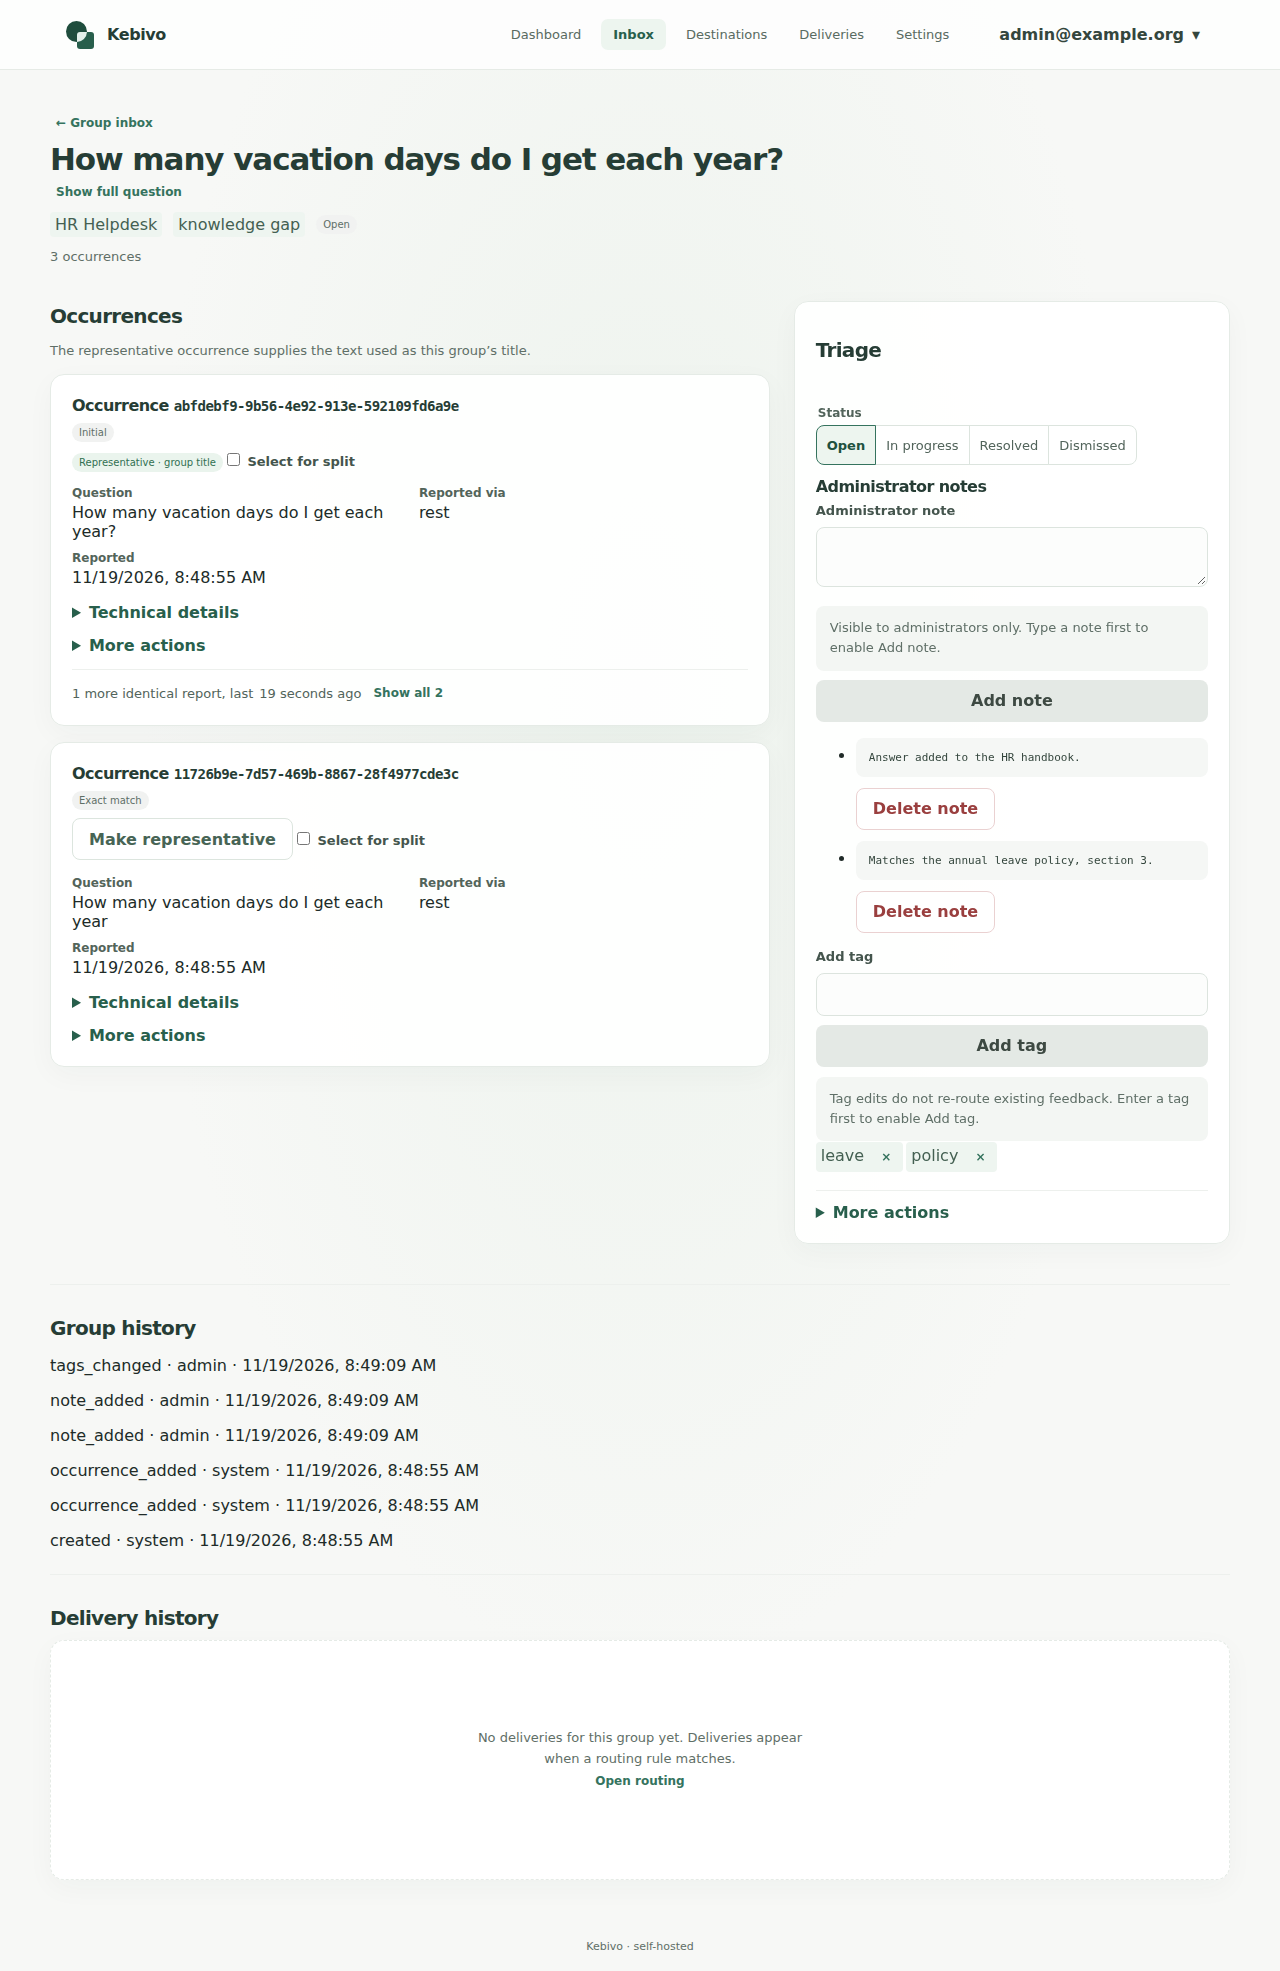
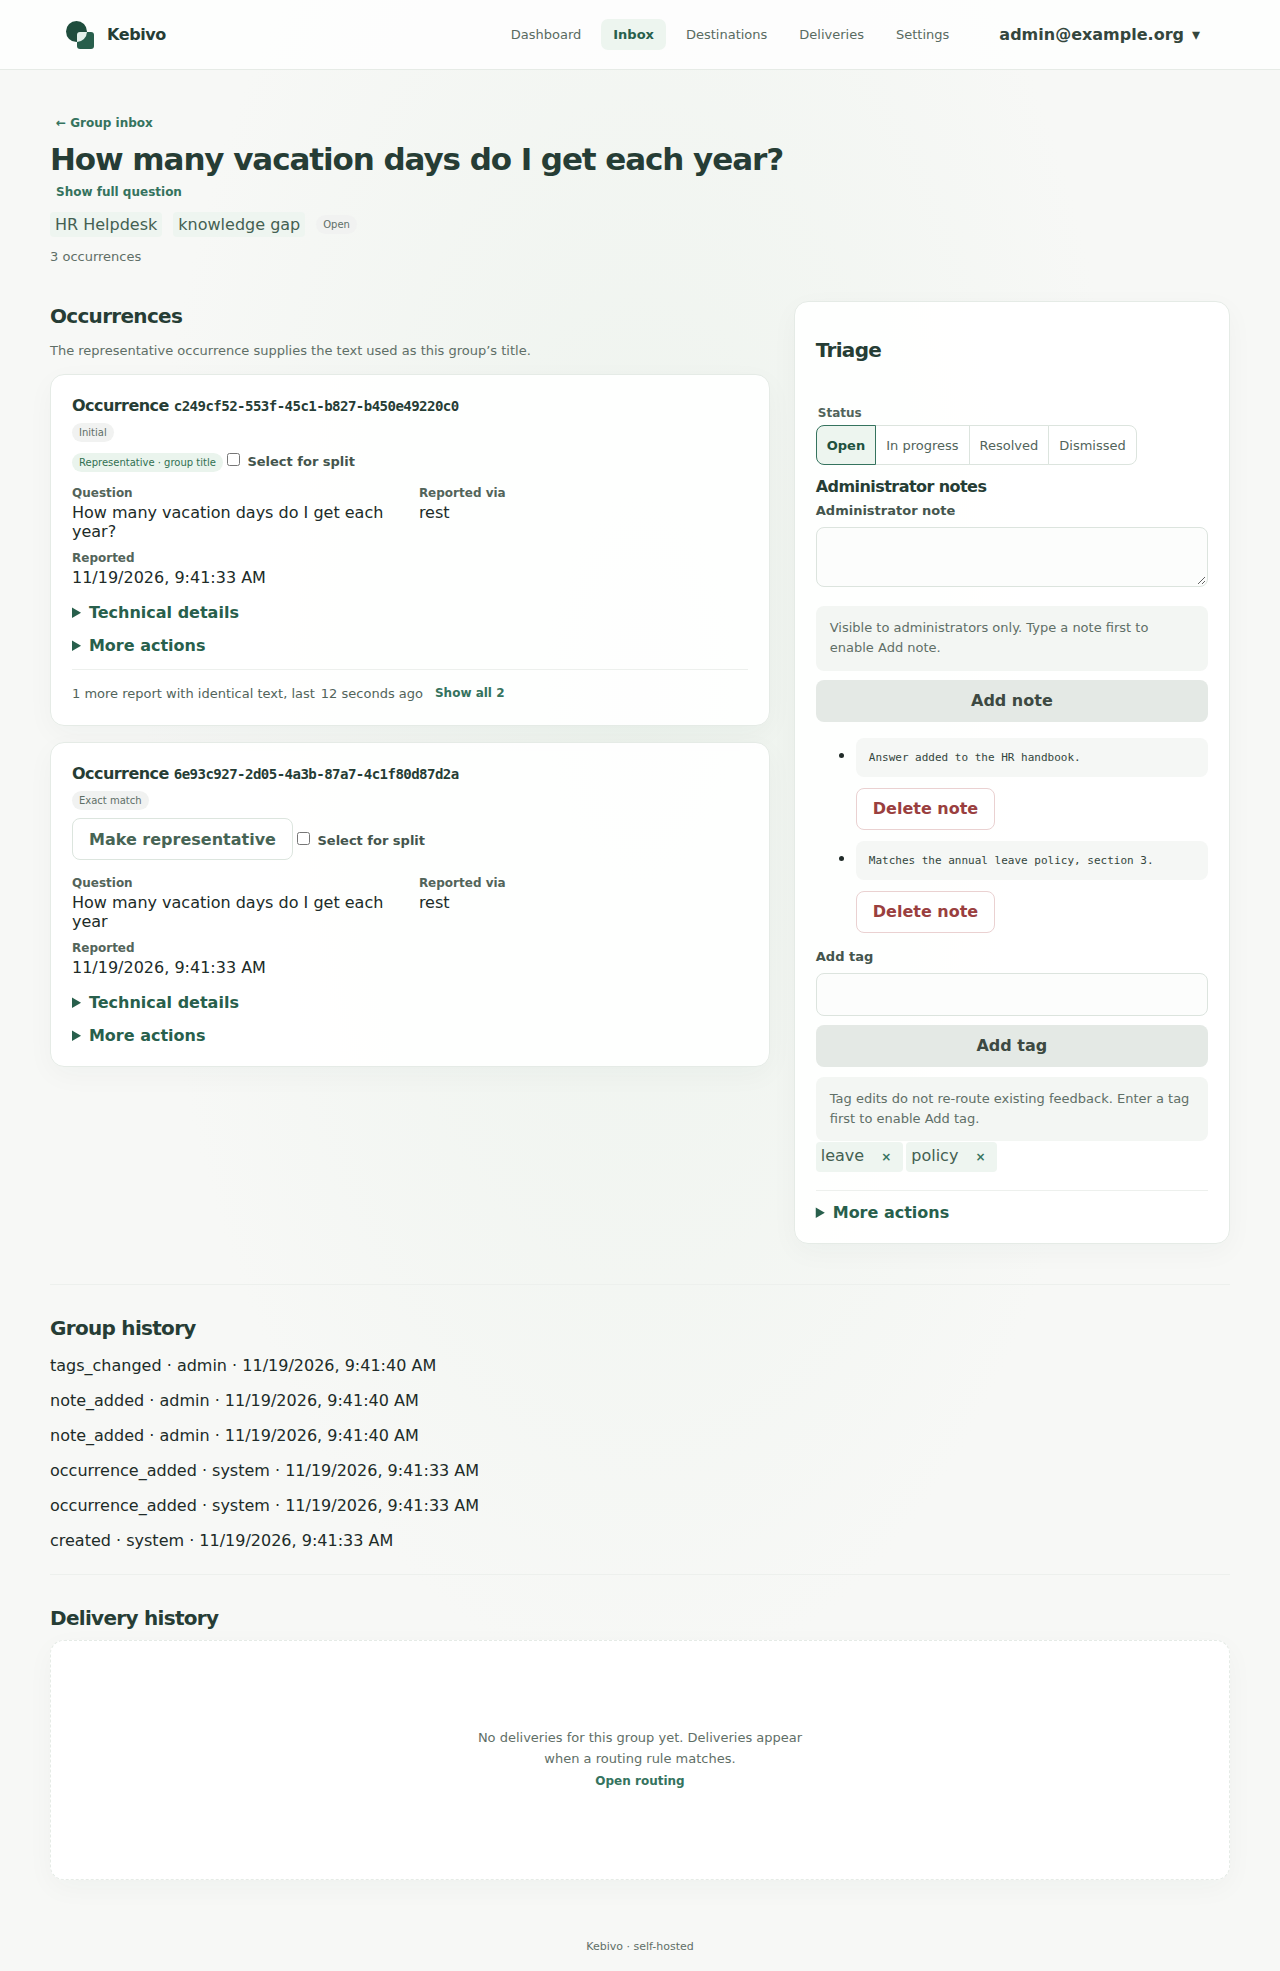
Keep reopening reports visible and unpin the triage panel
Identical-text occurrences that reopened the group now keep their own
card, the summary line says "with identical text" and its time covers
every copy. The triage panel was sticky but taller than the viewport, so
the actions now at its end could stay out of reach; it scrolls with the
page instead.

diff --git a/frontend/src/GroupDetail.test.tsx b/frontend/src/GroupDetail.test.tsx
@@ -232,30 +232,31 @@ describe("group detail safety and sections", () => {
     expect(requests.filter(request => request.url.endsWith("/admin/groups/g1/events"))).toHaveLength(2);
   });
 
-  it("shows identical reports once and splits from the expanded list", async () => {
+  it("shows identical reports once, keeps a reopening report apart, and splits from the expanded list", async () => {
     const requests: { url: string; init?: RequestInit }[] = [];
     const same = (id: string, at: string) => ({ id, event_type: "knowledge_gap", agent_reported: { question: "Do you ship to Canada?" }, system: { received_at: at }, tags: [] });
     globalThis.fetch = vi.fn(async (input, init) => {
       const url = String(input); requests.push({ url, init });
-      if (url.endsWith("/admin/groups/g1/events")) return new Response(JSON.stringify({ items: [same("e1", "2026-11-01T00:00:00Z"), same("e2", "2026-11-02T00:00:00Z"), { id: "e3", event_type: "knowledge_gap", agent_reported: { question: "Ship to Canada?" }, system: {}, tags: [] }, same("e4", "2026-11-03T00:00:00Z")], next_cursor: null }));
+      if (url.endsWith("/admin/groups/g1/events")) return new Response(JSON.stringify({ items: [same("e1", "2026-11-01T00:00:00Z"), same("e2", "2026-11-04T00:00:00Z"), { id: "e3", event_type: "knowledge_gap", agent_reported: { question: "Ship to Canada?" }, system: {}, tags: [] }, same("e4", "2026-11-03T00:00:00Z"), { ...same("e5", "2026-11-05T00:00:00Z"), match: { method: "exact", triggered_reopen: true } }], next_cursor: null }));
       if (url.endsWith("/admin/groups/g1/history")) return new Response(JSON.stringify({ items: [] }));
       if (url.includes("/deliveries?group_id=")) return new Response(JSON.stringify({ items: [] }));
       if (url.endsWith("/admin/groups/g1/split")) return new Response(JSON.stringify({ group_id: "g2" }));
-      return new Response(JSON.stringify({ id: "g1", status: "open", occurrence_count: 4, representative: { event_id: "e2", question: "Do you ship to Canada?" }, project: { id: "p1", name: "Shop" }, event_type: "knowledge_gap", notes: [], tags: [] }));
+      return new Response(JSON.stringify({ id: "g1", status: "open", occurrence_count: 5, representative: { event_id: "e2", question: "Do you ship to Canada?" }, project: { id: "p1", name: "Shop" }, event_type: "knowledge_gap", notes: [], tags: [] }));
     }) as typeof fetch;
     await act(async () => { root.render(<GroupDetail groupId="g1" navigate={() => {}} />); await new Promise(resolve => setTimeout(resolve, 0)); });
     const cards = () => Array.from(container.querySelectorAll("article[id^='event-']")).map(card => card.id);
-    expect(cards()).toEqual(["event-e2", "event-e3"]);
+    expect(cards()).toEqual(["event-e2", "event-e3", "event-e5"]);
+    expect(container.querySelector("#event-e5")!.textContent).toContain("Reopened this group");
     const summary = container.querySelector(".identical-reports")!;
-    expect(summary.textContent).toMatch(/^2 more identical reports, last /);
-    expect(summary.querySelector("time")?.getAttribute("dateTime")).toBe("2026-11-03T00:00:00Z");
+    expect(summary.textContent).toMatch(/^2 more reports with identical text, last /);
+    expect(summary.querySelector("time")?.getAttribute("dateTime")).toBe("2026-11-04T00:00:00Z");
     const toggle = summary.querySelector("button")!;
     expect(toggle.getAttribute("aria-expanded")).toBe("false");
     expect(toggle.textContent).toBe("Show all 3");
     expect(container.querySelector<HTMLDetailsElement>(".triage-more")!.open).toBe(false);
     await act(async () => { toggle.click(); });
     expect(toggle.getAttribute("aria-expanded")).toBe("true");
-    expect(cards()).toEqual(["event-e2", "event-e1", "event-e4", "event-e3"]);
+    expect(cards()).toEqual(["event-e2", "event-e1", "event-e4", "event-e3", "event-e5"]);
     await act(async () => { (container.querySelector('[aria-label="Select occurrence e4 for split"]') as HTMLInputElement).click(); });
     expect(container.querySelector<HTMLDetailsElement>(".triage-more")!.open).toBe(true);
     await act(async () => { Array.from(container.querySelectorAll("button")).find(button => button.textContent === "Split selected occurrences (1)")!.click(); });

diff --git a/frontend/src/GroupDetail.tsx b/frontend/src/GroupDetail.tsx
@@ -43,8 +43,9 @@ const matchLabels: Record<string, string> = { initial: "Initial", exact: "Exact 
 const stringify = (value: unknown) =>
   typeof value === "string" ? value : JSON.stringify(value, null, 2);
 // Occurrences with the same reported text collapse into one card; the rest sit behind a toggle.
+// A report that reopened the group keeps its own card so the reopen stays visible.
 const sameText = (ev: Event) =>
-  JSON.stringify([ev.event_type, ev.agent_reported.question, ev.agent_reported.previous_answer, ev.agent_reported.context, ev.agent_reported.correction ?? ev.submitted_correction]);
+  JSON.stringify([ev.event_type, ev.agent_reported.question, ev.agent_reported.previous_answer, ev.agent_reported.context, ev.agent_reported.correction ?? ev.submitted_correction, ev.match?.triggered_reopen ?? false]);
 const safe = (value: unknown) => (
   <pre className="safe-pre safe-text" dir="auto">
     {stringify(value)}
@@ -413,12 +414,12 @@ export function GroupDetail({
             const first = copies.find((ev) => ev.id === group.representative.event_id) ?? copies[0];
             const rest = copies.filter((ev) => ev !== first);
             const open = shownCopies[key] ?? rest.some((ev) => ev.id === highlight);
-            const latest = rest.reduce((last, ev) => (ev.system.received_at > last ? ev.system.received_at : last), "");
+            const latest = copies.reduce((last, ev) => (ev.system.received_at > last ? ev.system.received_at : last), "");
             return (
               <React.Fragment key={first.id}>
                 {occurrence(first, rest.length > 0 && (
                   <p className="identical-reports">
-                    {rest.length} more identical {rest.length === 1 ? "report" : "reports"}
+                    {rest.length} more {rest.length === 1 ? "report" : "reports"} with identical text
                     {latest && <>, last <time dateTime={latest} title={exactDate(latest)}>{relativeDate(latest)}</time></>}
                     <button type="button" className="text-button" aria-expanded={open} onClick={() => setShownCopies((current) => ({ ...current, [key]: !open }))}>
                       {open ? "Hide identical reports" : `Show all ${copies.length}`}

diff --git a/frontend/src/style.css b/frontend/src/style.css
@@ -209,7 +209,7 @@ tbody th small { display: block; margin-top: 4px; color: #5f6f67; font-weight: 4
 .group-chips { display:flex; flex-wrap:wrap; gap:8px; align-items:center; margin:8px 0; }
 .group-detail-columns { display:grid; grid-template-columns:minmax(0,1.65fr) minmax(300px,1fr); gap:24px; align-items:start; }
 .group-detail-main > section, .group-detail-triage > section { margin-top:12px; }
-.group-detail-triage { position:sticky; top:20px; grid-column:2; grid-row:1; }
+.group-detail-triage { grid-column:2; grid-row:1; }
 .group-detail-columns > .group-detail-main { grid-column:1; grid-row:1; }
 .group-detail-triage .inline-status { min-height:1.4em; color:#285f4c; font-size:13px; }
 .occurrence-summary { display:grid; grid-template-columns:repeat(2,minmax(0,1fr)); gap:10px 18px; }
@@ -221,7 +221,7 @@ tbody th small { display: block; margin-top: 4px; color: #5f6f67; font-weight: 4
 .group-detail-main details summary { cursor:pointer; color:#285f4c; font-weight:600; }
 .inline-confirm { display:inline-flex; flex-wrap:wrap; align-items:center; gap:8px; margin-left:8px; }
 button:disabled, button[aria-disabled="true"] { opacity:1; color:#3d4942; background:#e4e9e5; border-color:#c8d1ca; cursor:not-allowed; }
-@media(max-width:1023px) { .group-detail-columns { grid-template-columns:1fr; } .group-detail-triage { position:static; } .group-detail-triage, .group-detail-columns > .group-detail-main { grid-column:auto; grid-row:auto; } }
+@media(max-width:1023px) { .group-detail-columns { grid-template-columns:1fr; } .group-detail-triage, .group-detail-columns > .group-detail-main { grid-column:auto; grid-row:auto; } }
 @media(max-width:540px) { .occurrence-summary { grid-template-columns:1fr; } .group-question { max-width:100%; } }
 
 @media (max-width: 780px) { .dashboard-grid { grid-template-columns: 1fr; } .project-panel { order: 0; } .detail-column { order: 1; } }

diff --git a/docs/feedback-management.md b/docs/feedback-management.md
@@ -68,6 +68,6 @@ All writes below require an administrator cookie, the allowed `Origin` and `X-CS
 
 The `/inbox` page uses the group list API. Date pickers use UTC day boundaries. Search, project, type, repeated status and tag filters, inclusive first/last-seen bounds, minimum occurrences and sort are kept in the query string so a URL can be reloaded or shared. The **Reopened** toggle filters groups a recurrence reopened. Status, tag and reopened chips remove one filter at a time. “Load more” follows the opaque cursor and avoids appending duplicate group IDs. The page provides loading, empty and retryable error states. The home dashboard shows group/event totals, per-status counts, recent failed deliveries, and the API's top recurring open gaps; status and open-gap links open filtered inbox views. **Resolved (7d)** and **Reopened (7d)** open the inbox filtered to those groups and that week. Both screens use same-origin session-cookie requests.
 
-`/inbox/groups/{id}` shows paged full-text occurrences, group history and delivery history. Each occurrence separates **Reported by agent**, **Submitted correction (unverified)**, **Administrator notes**, and **System** content. Text and metadata render as literal text. The header shows when a resolved group was resolved, or a **Reopened** chip with the occurrences since it was resolved, and the resolution note beside it. **Status** comes first in the Triage panel, as a row of buttons. Choosing **Resolved** moves focus to an optional one-line "What did you change?" note; skipping it leaves the group resolved. Occurrences with identical text show once, with a count of the others, when the last one arrived, and a button that shows them all; select occurrences to split from the full list. Merge, Split and Find similar groups sit under **More actions**, which opens when you select an occurrence. Administrators can change status, select a representative occurrence, add or delete notes, and add or remove tags; tag edits do not re-route. Merge searches only groups in the same project and event type, warns that resolved or dismissed targets retain their status, and reports incompatible-group errors. Split supports a chosen representative and blocks moving every occurrence. Delete confirmation explains that delivery records and, for the last occurrence, the group and notes will be removed; it also explains that sent copies cannot be recalled. A busy deletion says “being delivered, try again shortly”; deleting the last occurrence returns to the inbox. Dialogs return keyboard focus to the control that opened them. Delivery attempts open in a dialog, and Retry is offered only for failed deliveries. Legacy `/inbox/{event_id}` URLs resolve to the event's group and highlight that occurrence.
+`/inbox/groups/{id}` shows paged full-text occurrences, group history and delivery history. Each occurrence separates **Reported by agent**, **Submitted correction (unverified)**, **Administrator notes**, and **System** content. Text and metadata render as literal text. The header shows when a resolved group was resolved, or a **Reopened** chip with the occurrences since it was resolved, and the resolution note beside it. **Status** comes first in the Triage panel, as a row of buttons. Choosing **Resolved** moves focus to an optional one-line "What did you change?" note; skipping it leaves the group resolved. Occurrences with identical text show once, with a count of the others, when the last one arrived, and a button that shows them all; a report that reopened the group keeps its own card; select occurrences to split from the full list. Merge, Split and Find similar groups sit under **More actions**, which opens when you select an occurrence. Administrators can change status, select a representative occurrence, add or delete notes, and add or remove tags; tag edits do not re-route. Merge searches only groups in the same project and event type, warns that resolved or dismissed targets retain their status, and reports incompatible-group errors. Split supports a chosen representative and blocks moving every occurrence. Delete confirmation explains that delivery records and, for the last occurrence, the group and notes will be removed; it also explains that sent copies cannot be recalled. A busy deletion says “being delivered, try again shortly”; deleting the last occurrence returns to the inbox. Dialogs return keyboard focus to the control that opened them. Delivery attempts open in a dialog, and Retry is offered only for failed deliveries. Legacy `/inbox/{event_id}` URLs resolve to the event's group and highlight that occurrence.
 
 `make smoke` verifies the built container against these behaviors. It covers group creation at ingest, the open/resolved `it` filters after an app restart, group authorization, merge/split membership and occurrence preservation, delivered and retry-scheduled deletion, audit redaction, canary search and log sweeps, and `check-groups` totals. It also migrates a database copy from 0007 to 0008 and records a 10,000-event search latency sample; latency is informational, not a gate.

diff --git a/CHANGELOG.md b/CHANGELOG.md
@@ -5,7 +5,7 @@
 - Project tokens can read their project's knowledge gaps with the new opt-in `gaps:read` scope, through `GET /api/v1/groups` or the read-only MCP tool `list_open_gaps`. Results contain only the question, count, first and last seen, tags and status; notes, `user_reference` and other report fields are never returned. Reads are limited to 30 a minute per token (`GAPS_READ_RATE_LIMIT_PER_TOKEN`) and each one is audited. The questions are end-user text, so use a separate token for reading and keep `gaps:read` off the token your assistant uses. Existing tokens keep their scopes. A token may now hold only `gaps:read`. See [read open gaps](docs/rest-api.md#read-open-gaps).
 - After you resolve a group, the inbox and group page show "Resolved 3 days ago, no new occurrences since". If the question comes back, the group shows a **Reopened** chip with how many new occurrences arrived since you resolved it. The inbox has a **Reopened** filter, and the dashboard counts groups resolved and reopened in the last 7 days, each linking to the filtered inbox.
 - Choosing **Resolved** on a group offers an optional "What did you change?" note, shown beside the resolved or reopened chip. Skipping it still resolves the group.
-- The group page puts **Status** first, as a row of buttons at the top of Triage, so it is in view without scrolling. Choosing **Resolved** moves focus to the "What did you change?" note. Merge, Split and Find similar groups move under **More actions**, which opens by itself when you select an occurrence to split. Occurrences with identical text show once, with "6 more identical reports, last 11 hours ago" and a button to show them all.
+- The group page puts **Status** first, as a row of buttons at the top of Triage, so it is in view without scrolling. Choosing **Resolved** moves focus to the "What did you change?" note. Merge, Split and Find similar groups move under **More actions**, which opens by itself when you select an occurrence to split. Occurrences with identical text show once, with "6 more reports with identical text, last 11 hours ago" and a button to show them all. A report that reopened the group keeps its own card. The Triage panel no longer stays pinned while you scroll, so its lower controls are always reachable.
 - The grouping hint and the "Report from your own app" guide now say that only identical wording is grouped by default, and that connecting your bot's model as the LLM judge groups paraphrases.
 - New delivery mode: a weekly digest. A webhook, Slack or email destination can send one message a week, on a day and hour you choose, with the top five open groups by occurrences, each with a link, plus how many groups were resolved and reopened. A week with nothing to report sends nothing, and a digest missed while Kebivo was down is sent once on the next start. After an outage that spans several weeks, one digest covers the whole missed period, up to 28 days. It uses the same retries, signing and delivery log as other deliveries. See [weekly digest](docs/destinations.md#weekly-digest).
 
